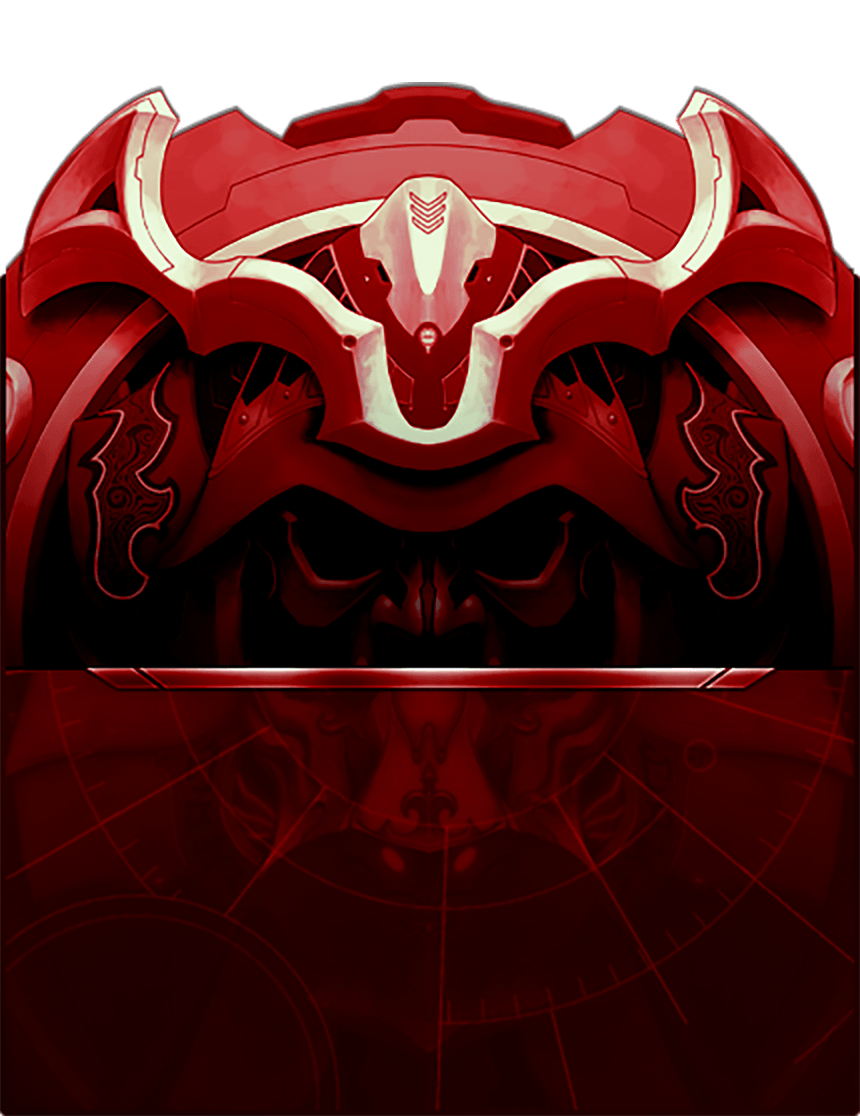
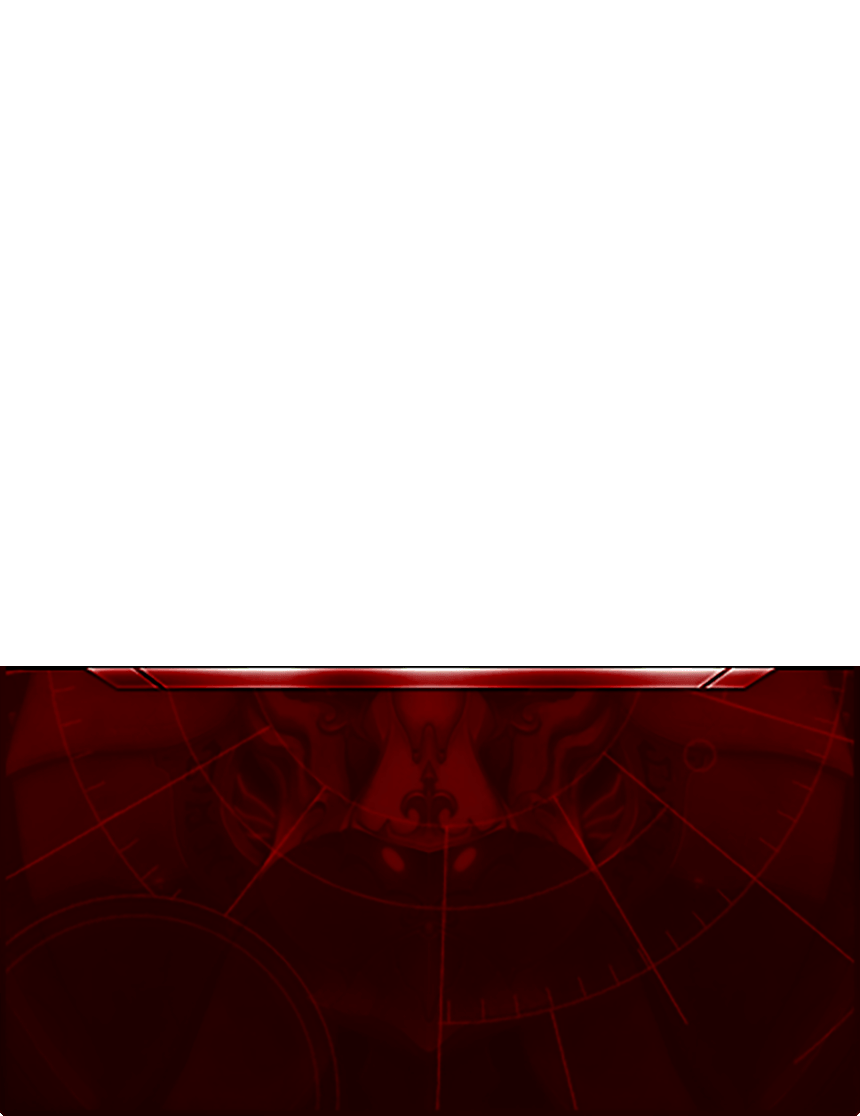
game preview scenes changed.

diff --git a/src/view/fxmlControllers/LoadingGamePreviewScenes.java b/src/view/fxmlControllers/LoadingGamePreviewScenes.java
@@ -1,7 +1,6 @@
 package view.fxmlControllers;
 
 import controller.Main;
-import controller.window.normalwindow.ChoosingWindow;
 import javafx.fxml.FXMLLoader;
 import javafx.scene.Scene;
 import javafx.scene.layout.AnchorPane;
@@ -17,7 +16,7 @@ import java.util.*;
 public abstract class LoadingGamePreviewScenes {
     static HashMap<String, Scene> starterScenes = new HashMap<>();
     static HashMap<String, GamePreviewStarterController> starterControllers = new HashMap<>();
-    static HashMap<String, Scene> scenes = new HashMap<>();
+    static HashMap<String, AnchorPane> scenesAsAnchorPane = new HashMap<>();
     static HashMap<String, GamePreviewController> sceneControllers = new HashMap<>();
     static ArrayList<String> selectedButtonsText = new ArrayList<>();
 
@@ -47,7 +46,7 @@ public abstract class LoadingGamePreviewScenes {
         try {
             FXMLLoader fxmlLoader = new FXMLLoader
                     (LoadedScenes.class.getResource("gamePreview.fxml"));
-            scenes.put("Battle", new Scene(scale(fxmlLoader.load())));
+            scenesAsAnchorPane.put("Battle", fxmlLoader.load());
             sceneControllers.put("Battle", fxmlLoader.getController());
         } catch (IOException e) {
             e.printStackTrace();
@@ -70,7 +69,7 @@ public abstract class LoadingGamePreviewScenes {
         } catch (IOException e) {
             e.printStackTrace();
         }
-        starterControllers.get("Battle").setFields(imagesNumber, scenes.get("Battle"));
+        starterControllers.get("Battle").setFields(imagesNumber, "Battle");
         sceneControllers.get("Battle").setFields("Battle", imagesNumber);
         sceneControllers.get("Battle").addButton(singlePlayerButton, multiPlayerButton);
         sceneControllers.get("Battle").setPreviewSceneName("Main Menu");
@@ -89,7 +88,7 @@ public abstract class LoadingGamePreviewScenes {
         try {
             FXMLLoader fxmlLoader = new FXMLLoader
                     (LoadedScenes.class.getResource("gamePreview.fxml"));
-            scenes.put("Single Player", new Scene(scale(fxmlLoader.load())));
+            scenesAsAnchorPane.put("Single Player", fxmlLoader.load());
             sceneControllers.put("Single Player", fxmlLoader.getController());
         } catch (IOException e) {
             e.printStackTrace();
@@ -112,7 +111,7 @@ public abstract class LoadingGamePreviewScenes {
         } catch (IOException e) {
             e.printStackTrace();
         }
-        starterControllers.get("Single Player").setFields(imagesNumber, scenes.get("Single Player"));
+        starterControllers.get("Single Player").setFields(imagesNumber, "Single Player");
         sceneControllers.get("Single Player").setFields("Single Player", imagesNumber);
         sceneControllers.get("Single Player").addButton(storyButton, customButton);
     }
@@ -130,7 +129,7 @@ public abstract class LoadingGamePreviewScenes {
         try {
             FXMLLoader fxmlLoader = new FXMLLoader
                     (LoadedScenes.class.getResource("gamePreview.fxml"));
-            scenes.put("Multi Player", new Scene(scale(fxmlLoader.load())));
+            scenesAsAnchorPane.put("Multi Player", fxmlLoader.load());
             sceneControllers.put("Multi Player", fxmlLoader.getController());
         } catch (IOException e) {
             e.printStackTrace();
@@ -145,7 +144,7 @@ public abstract class LoadingGamePreviewScenes {
                 e.printStackTrace();
             }
         }
-        starterControllers.get("Multi Player").setFields(imagesNumber, scenes.get("Multi Player"));
+        starterControllers.get("Multi Player").setFields(imagesNumber, "Multi Player");
         sceneControllers.get("Multi Player").setFields("Multi Player", imagesNumber);
     }
 
@@ -162,7 +161,7 @@ public abstract class LoadingGamePreviewScenes {
         try {
             FXMLLoader fxmlLoader = new FXMLLoader
                     (LoadedScenes.class.getResource("gamePreview.fxml"));
-            scenes.put("Story", new Scene(scale(fxmlLoader.load())));
+            scenesAsAnchorPane.put("Story", fxmlLoader.load());
             sceneControllers.put("Story", fxmlLoader.getController());
         } catch (IOException e) {
             e.printStackTrace();
@@ -179,7 +178,7 @@ public abstract class LoadingGamePreviewScenes {
                 e.printStackTrace();
             }
         }
-        starterControllers.get("Story").setFields(imagesNumber, scenes.get("Story"));
+        starterControllers.get("Story").setFields(imagesNumber, "Story");
         sceneControllers.get("Story").setFields("Story", imagesNumber);
     }
 
@@ -196,7 +195,7 @@ public abstract class LoadingGamePreviewScenes {
         try {
             FXMLLoader fxmlLoader = new FXMLLoader
                     (LoadedScenes.class.getResource("gamePreview.fxml"));
-            scenes.put("Custom", new Scene(scale(fxmlLoader.load())));
+            scenesAsAnchorPane.put("Custom", fxmlLoader.load());
             sceneControllers.put("Custom", fxmlLoader.getController());
         } catch (IOException e) {
             e.printStackTrace();
@@ -212,7 +211,7 @@ public abstract class LoadingGamePreviewScenes {
                 e.printStackTrace();
             }
         }
-        starterControllers.get("Custom").setFields(imagesNumber, scenes.get("Custom"));
+        starterControllers.get("Custom").setFields(imagesNumber, "Custom");
         sceneControllers.get("Custom").setFields("Custom", imagesNumber);
     }
 
@@ -229,7 +228,7 @@ public abstract class LoadingGamePreviewScenes {
         try {
             FXMLLoader fxmlLoader = new FXMLLoader
                     (LoadedScenes.class.getResource("gamePreview.fxml"));
-            scenes.put("Mood", new Scene(scale(fxmlLoader.load())));
+            scenesAsAnchorPane.put("Mood", fxmlLoader.load());
             sceneControllers.put("Mood", fxmlLoader.getController());
         } catch (IOException e) {
             e.printStackTrace();
@@ -261,7 +260,7 @@ public abstract class LoadingGamePreviewScenes {
         } catch (IOException e) {
             e.printStackTrace();
         }
-        starterControllers.get("Mood").setFields(imagesNumber, scenes.get("Mood"));
+        starterControllers.get("Mood").setFields(imagesNumber, "Mood");
         sceneControllers.get("Mood").setFields("Mood", imagesNumber);
         sceneControllers.get("Mood").addButton(killingEnemyHeroButton,carryingFlagButton, collectingFlagButton);
     }

diff --git a/src/view/fxmlControllers/GamePreviewStarterController.java b/src/view/fxmlControllers/GamePreviewStarterController.java
@@ -1,20 +1,26 @@
 package view.fxmlControllers;
 
-import controller.Main;
 import javafx.application.Platform;
 import javafx.scene.Scene;
-import javafx.scene.image.Image;
 import javafx.scene.image.ImageView;
 import javafx.scene.layout.AnchorPane;
 import javafx.scene.transform.Scale;
+import javafx.stage.Screen;
 import view.images.LoadedImages;
 
 public class GamePreviewStarterController {
     public AnchorPane faceAnchorPane, shadowAnchorPane;
     public ImageView face = new ImageView(), shadow = new ImageView();
-    private Scene gamePreviewScene;
+    public AnchorPane gamePreviewAnchorPane;
+    public GamePreviewController gamePreviewController;
+    public double startYPropertyOfGamePreviewScene;
 
     public void run() {
+        gamePreviewAnchorPane.setLayoutY(startYPropertyOfGamePreviewScene);
+        shadow.setOpacity(1);
+        gamePreviewController.titleText.setOpacity(0);
+        gamePreviewController.titleBackgroundImage.setOpacity(0);
+        gamePreviewController.backButton.setOpacity(0);
         new Thread(() -> {
             while (shadow.getOpacity() != 0) {
                 try {
@@ -22,30 +28,32 @@ public class GamePreviewStarterController {
                 } catch (InterruptedException e) {
                     e.printStackTrace();
                 }
-                double newOpacity = shadow.getOpacity() - 0.0003;
-                shadow.setOpacity(newOpacity > 0 ? newOpacity : 0);
+                double newOpacity = shadow.getOpacity() - 0.0003 > 0 ? shadow.getOpacity() - 0.0003 : 0;
+                Platform.runLater(() -> shadow.setOpacity(newOpacity));
             }
-            try {
-                Thread.sleep(300);
-            } catch (InterruptedException e) {
-                e.printStackTrace();
+            while (gamePreviewAnchorPane.getLayoutY() != 0) {
+                try {
+                    Thread.sleep(2);
+                } catch (InterruptedException e) {
+                    e.printStackTrace();
+                }
+                double newYProperty = gamePreviewAnchorPane.getLayoutY() - 1 > 0 ? gamePreviewAnchorPane.getLayoutY() - 1 : 0;
+                Platform.runLater(() -> gamePreviewAnchorPane.setLayoutY(newYProperty));
             }
-            Platform.runLater(() -> {
-                Main.mainStage.setScene(gamePreviewScene);
-                Main.mainStage.setFullScreen(true);
-                shadow.setOpacity(1);
-            });
+            gamePreviewController.run();
         }).start();
     }
 
-    public void setFields(int faceAndShadowNumber, Scene gamePreviewScene) {
+    public void setFields(int faceAndShadowNumber, String gamePreviewSceneName) {
         face.setImage(LoadedImages.notStaticBeforeGameImages.get("face").get(faceAndShadowNumber));
         shadow.setImage(LoadedImages.notStaticBeforeGameImages.get("shadow").get(faceAndShadowNumber));
         faceAnchorPane.getChildren().add(face);
         shadowAnchorPane.getChildren().add(shadow);
         scaleImageViewInsideAnchorPane(faceAnchorPane, face);
         scaleImageViewInsideAnchorPane(shadowAnchorPane, shadow);
-        this.gamePreviewScene = gamePreviewScene;
+        gamePreviewAnchorPane.getChildren().addAll(LoadingGamePreviewScenes.scenesAsAnchorPane.get(gamePreviewSceneName));
+        gamePreviewController = LoadingGamePreviewScenes.sceneControllers.get(gamePreviewSceneName);
+        startYPropertyOfGamePreviewScene = Screen.getPrimary().getVisualBounds().getHeight();
     }
 
     private void scaleImageViewInsideAnchorPane(AnchorPane anchorPane, ImageView imageView) {

diff --git a/src/view/fxmlControllers/GamePreviewController.java b/src/view/fxmlControllers/GamePreviewController.java
@@ -1,6 +1,7 @@
 package view.fxmlControllers;
 
 import controller.Main;
+import javafx.application.Platform;
 import javafx.scene.Scene;
 import javafx.scene.effect.Glow;
 import javafx.scene.image.ImageView;
@@ -20,7 +21,24 @@ public class GamePreviewController {
     public VBox leftVBox;
     public VBox rightVBox;
     public AnchorPane backgroundAnchorPane;
+    public ImageView titleBackgroundImage;
     private String previewSceneName;
+
+    public void run() {
+        while (titleText.getOpacity() < 1 || titleBackgroundImage.getOpacity() < 1 || backButton.getOpacity() < 1) {
+            try {
+                Thread.sleep(1);
+            } catch (InterruptedException e) {
+                e.printStackTrace();
+            }
+            double newOpacity = titleText.getOpacity() + 0.0005 < 1 ? titleText.getOpacity() + 0.0005 : 1;
+            Platform.runLater(() -> {
+                titleText.setOpacity(newOpacity);
+                titleBackgroundImage.setOpacity(newOpacity);
+                backButton.setOpacity(newOpacity);
+            });
+        }
+    }
 
     public void back(MouseEvent mouseEvent) {
         if (LoadingGamePreviewScenes.selectedButtonsText.size() > 0)

diff --git a/src/controller/Main.java b/src/controller/Main.java
@@ -4,19 +4,8 @@ import controller.window.LoadWindow;
 import javafx.application.Application;
 import javafx.application.Platform;
 import javafx.stage.Stage;
-import model.Account;
-import model.Deck;
-import model.Game;
-import model.Level;
-import model.actions.Killer;
-import model.cards.Card;
 import model.cards.CardFactory;
-import model.cards.Warrior;
-import model.exceptions.NotEnoughConditions;
-import model.gamemodes.KillingEnemyHero;
-import view.fxmlControllers.ArenaController;
 import view.fxmlControllers.LoadingGamePreviewScenes;
-import view.fxmlControllers.ShopController;
 import view.fxmls.LoadedScenes;
 import view.images.LoadedImages;
 
@@ -46,6 +35,8 @@ public class Main extends Application {
         new LoadedImages();
         new LoadedScenes();
         new LoadWindow().main();
+
+        LoadingGamePreviewScenes.load();
 
 //        {//arena
 //            Account account = new Account("test", "test");

diff --git a/src/view/fxmls/LoadedScenes.java b/src/view/fxmls/LoadedScenes.java
@@ -29,10 +29,9 @@ public class LoadedScenes {
             chooseBattleKind = new Scene(scale(FXMLLoader.load(getClass().getResource("chooseBattleKind.fxml"))));
             shop = new Scene(scale(FXMLLoader.load(getClass().getResource("shop.fxml"))));
             collectionOfShop = new Scene(scale(FXMLLoader.load(getClass().getResource("collectionOfShop.fxml"))));
-            arena = new Scene(scale(FXMLLoader.load(getClass().getResource("arena.fxml"))));
+//            arena = new Scene(scale(FXMLLoader.load(getClass().getResource("arena.fxml"))));
         } catch (IOException e) {
             e.printStackTrace();
         }
     }
-
 }
